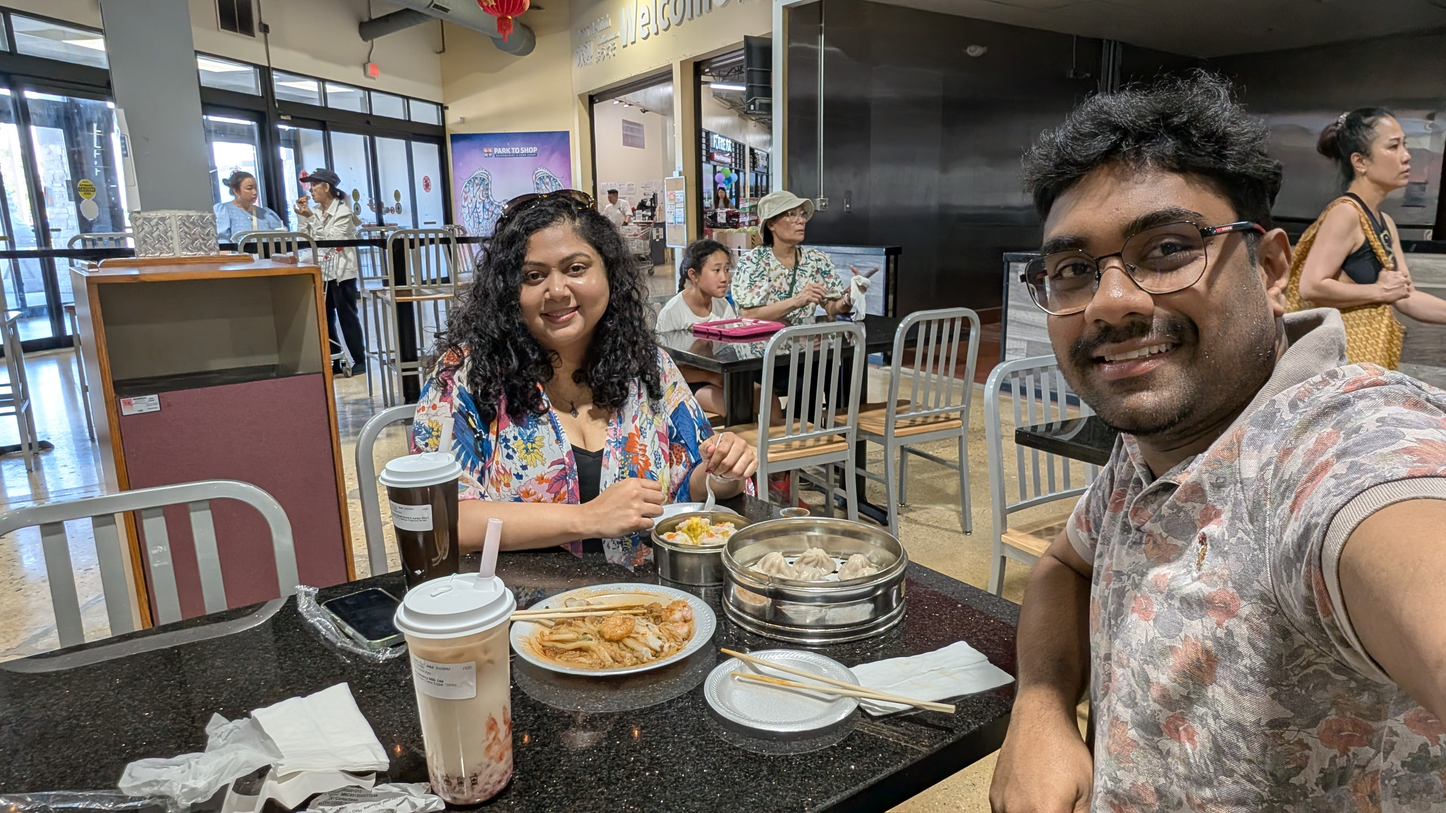
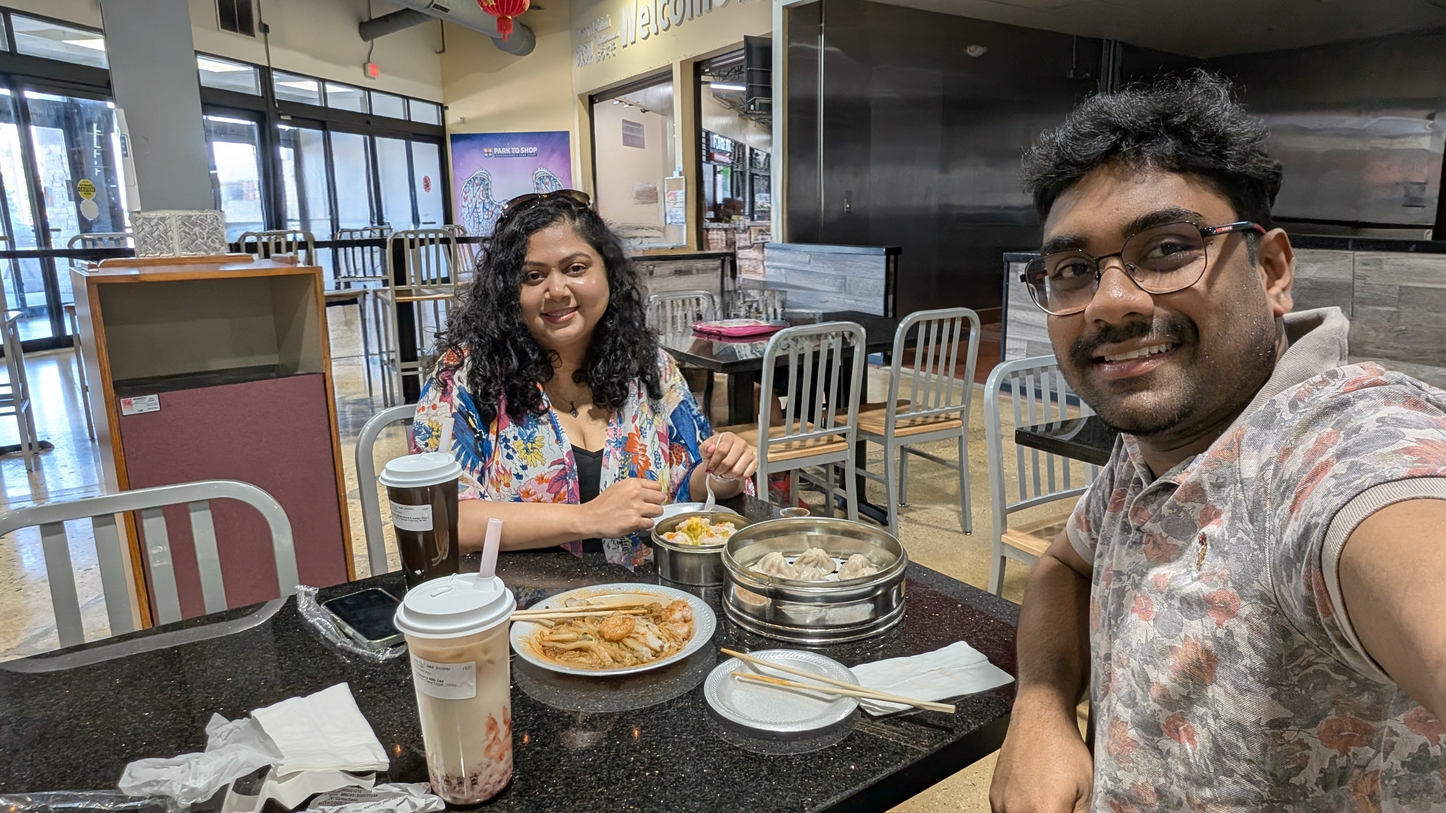
Replace photo_giant_dosa and photo_dim_sum with photoshopped versions and center focal points

Changed region(s): [[0.4062, 0.1861, 0.625, 0.5583], [0.875, 0.1241, 1.0, 0.4653], [0.125, 0.1861, 0.3125, 0.4653]]

diff --git a/src/style.css b/src/style.css
@@ -690,7 +690,10 @@ body {
   object-position: center 25%;
 }
 .slide-img[src*="photo_dim_sum"] {
-  object-position: 60% 40%;
+  object-position: 62% 40%;
+}
+.slide-img[src*="photo_giant_dosa"] {
+  object-position: 47% 40%;
 }
 .slide-img[src*="photo_chicago_bean"] {
   object-position: center 70%;
